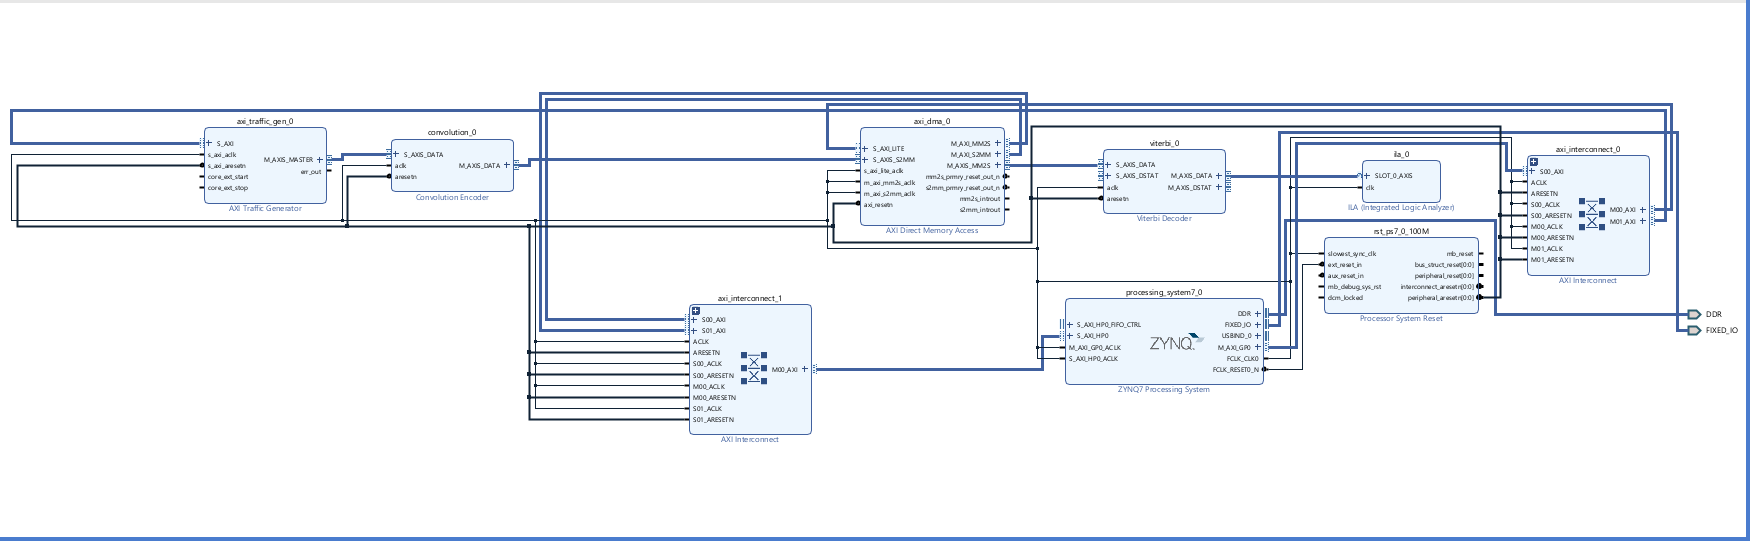
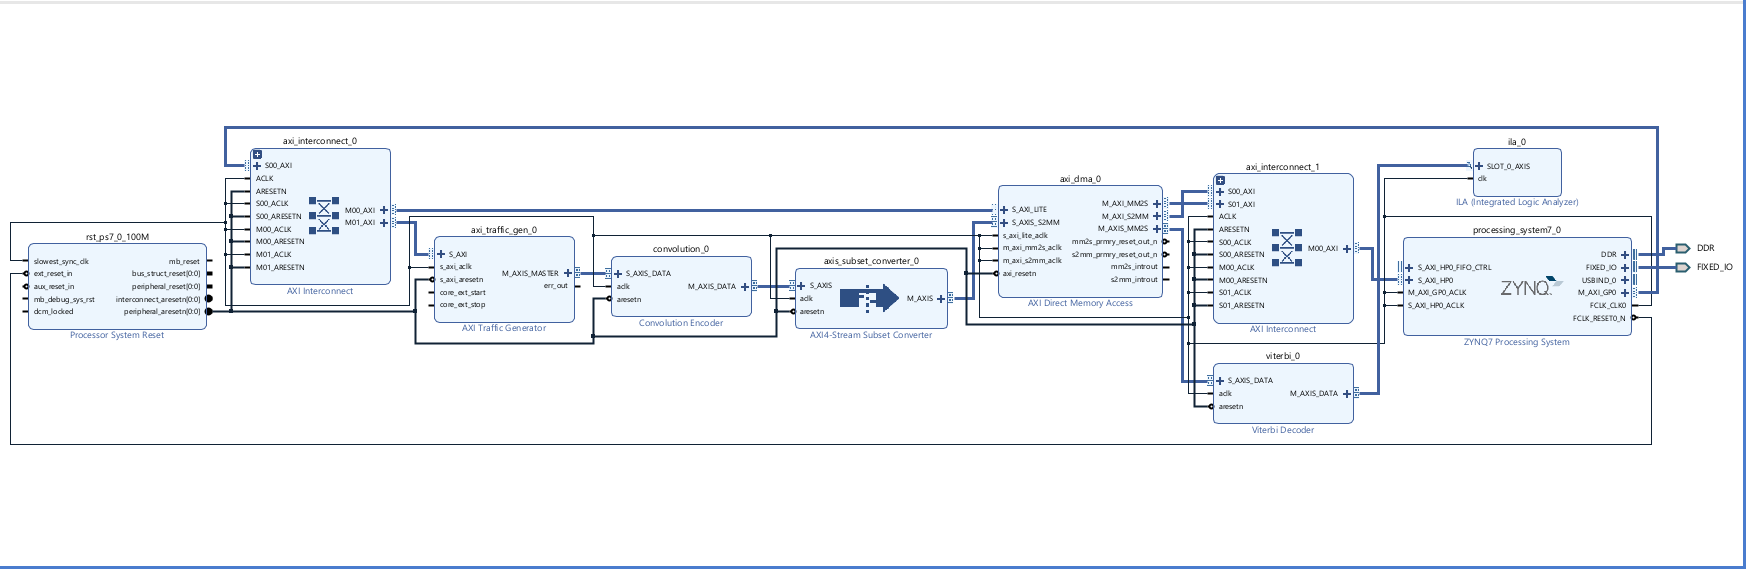
Simplify wireless project overview and update diagram

Changed region(s): [[0.0, 0.1476, 1.0, 0.8266], [0.0, 0.9742, 1.0, 1.0], [0.7113, 0.738, 0.7732, 0.7675]]

diff --git a/wireless-communication-system/README.md b/wireless-communication-system/README.md
@@ -1,52 +1,31 @@
 # Wireless Communication System
 
-This project explores a hardware/software communication chain on the PYNQ-Z2 using a convolutional encoder, a software noise model and a Viterbi decoder.
+This project demonstrates a simple digital communication chain implemented as a hardware/software co-design on the PYNQ-Z2 board.
 
 ![Vivado block design](docs/block-design.png)
 
-## Intended data flow
+## What the project does
 
-1. An AXI Traffic Generator provides the source stream.
-2. A convolutional encoder produces the coded data.
-3. AXI DMA writes the coded stream to DDR.
-4. ARM software applies an additive-noise model and prepares decoder input.
-5. AXI DMA streams the data to the Viterbi decoder.
-6. An ILA captures the Viterbi output for inspection.
+1. The AXI Traffic Generator creates the source data.
+2. The Convolutional Encoder adds redundancy so the data can be recovered after transmission errors.
+3. AXI DMA transfers the encoded data to DDR memory.
+4. The ARM processor adds simulated channel noise and prepares the data for decoding.
+5. AXI DMA sends the noisy data back to the programmable logic.
+6. The Viterbi Decoder recovers the original data.
+7. The ILA displays the decoder output for hardware observation.
 
-## Implementation result
+## Main components
 
-| Metric | Result |
-|---|---:|
-| Target | PYNQ-Z2 (`xc7z020clg400-1`) |
-| Vivado version | 2022.2 |
-| WNS | 0.855 ns |
-| WHS | 0.014 ns |
-| LUTs | 6,805 (12.79%) |
-| Flip-flops | 8,361 (7.86%) |
-| BRAM tiles | 4.5 |
-| DSPs | 0 |
-| Bitstream | Generated successfully |
+| Component | Purpose |
+|---|---|
+| Zynq-7000 Processing System | Runs the software and controls data stored in DDR memory. |
+| AXI Traffic Generator | Produces the input data stream. |
+| Convolutional Encoder | Protects the data by adding redundant coded bits. |
+| AXI4-Stream Subset Converter | Adds the packet boundary required by the DMA. |
+| AXI DMA | Moves data between the hardware stream and DDR memory. |
+| Viterbi Decoder | Reconstructs the original data from the noisy coded data. |
+| ILA | Captures the decoded output inside the FPGA. |
 
-## Corrected software and required hardware update
+## Project purpose
 
-`software/main.c` replaces the unsafe buffer-content polling with AXI DMA status polling and a timeout, initializes and starts the streaming AXI Traffic Generator, performs the required cache maintenance, and applies Gaussian noise only to the two valid encoder output bits.
-
-The archived bitstream cannot run that application correctly without two hardware changes:
-
-1. Insert `rtl/axis_tlast_generator.sv` after the convolutional encoder so the DMA receives a packet-ending `TLAST`.
-2. Configure the Viterbi Decoder for hard decisions and change the DMA MM2S stream width to 8 bits.
-
-Follow [HARDWARE_CHANGES.md](HARDWARE_CHANGES.md) exactly, then regenerate the bitstream and XSA before rebuilding the Vitis platform.
-
-The Viterbi output currently goes only to the ILA. Therefore, successful DMA completion proves data movement but not decoded-bit correctness. Capture the decoder output in the ILA, or add a second S2MM path for automatic comparison in software.
-
-The archived implementation also contains evaluation-licensed communication IP; deployment restrictions imposed by the generated license must be observed.
-
-## Contents
-
-- `hardware/design_1.bd`: Vivado block-design source.
-- `software/main.c`: corrected bare-metal Vitis application for the revised hard-decision design.
-- `rtl/axis_tlast_generator.sv`: AXI4-Stream packet-boundary helper.
-- `rtl/axis_tlast_generator_tb.sv`: self-checking testbench for the helper.
-- `HARDWARE_CHANGES.md`: exact Vivado integration requirements.
-- `docs/implementation-summary.md`: implementation and reproducibility notes.
+The project shows how the ARM processor and FPGA logic can work together in one SoC. The FPGA handles the communication blocks, while the processor handles the software channel model and controls the memory transfers.
